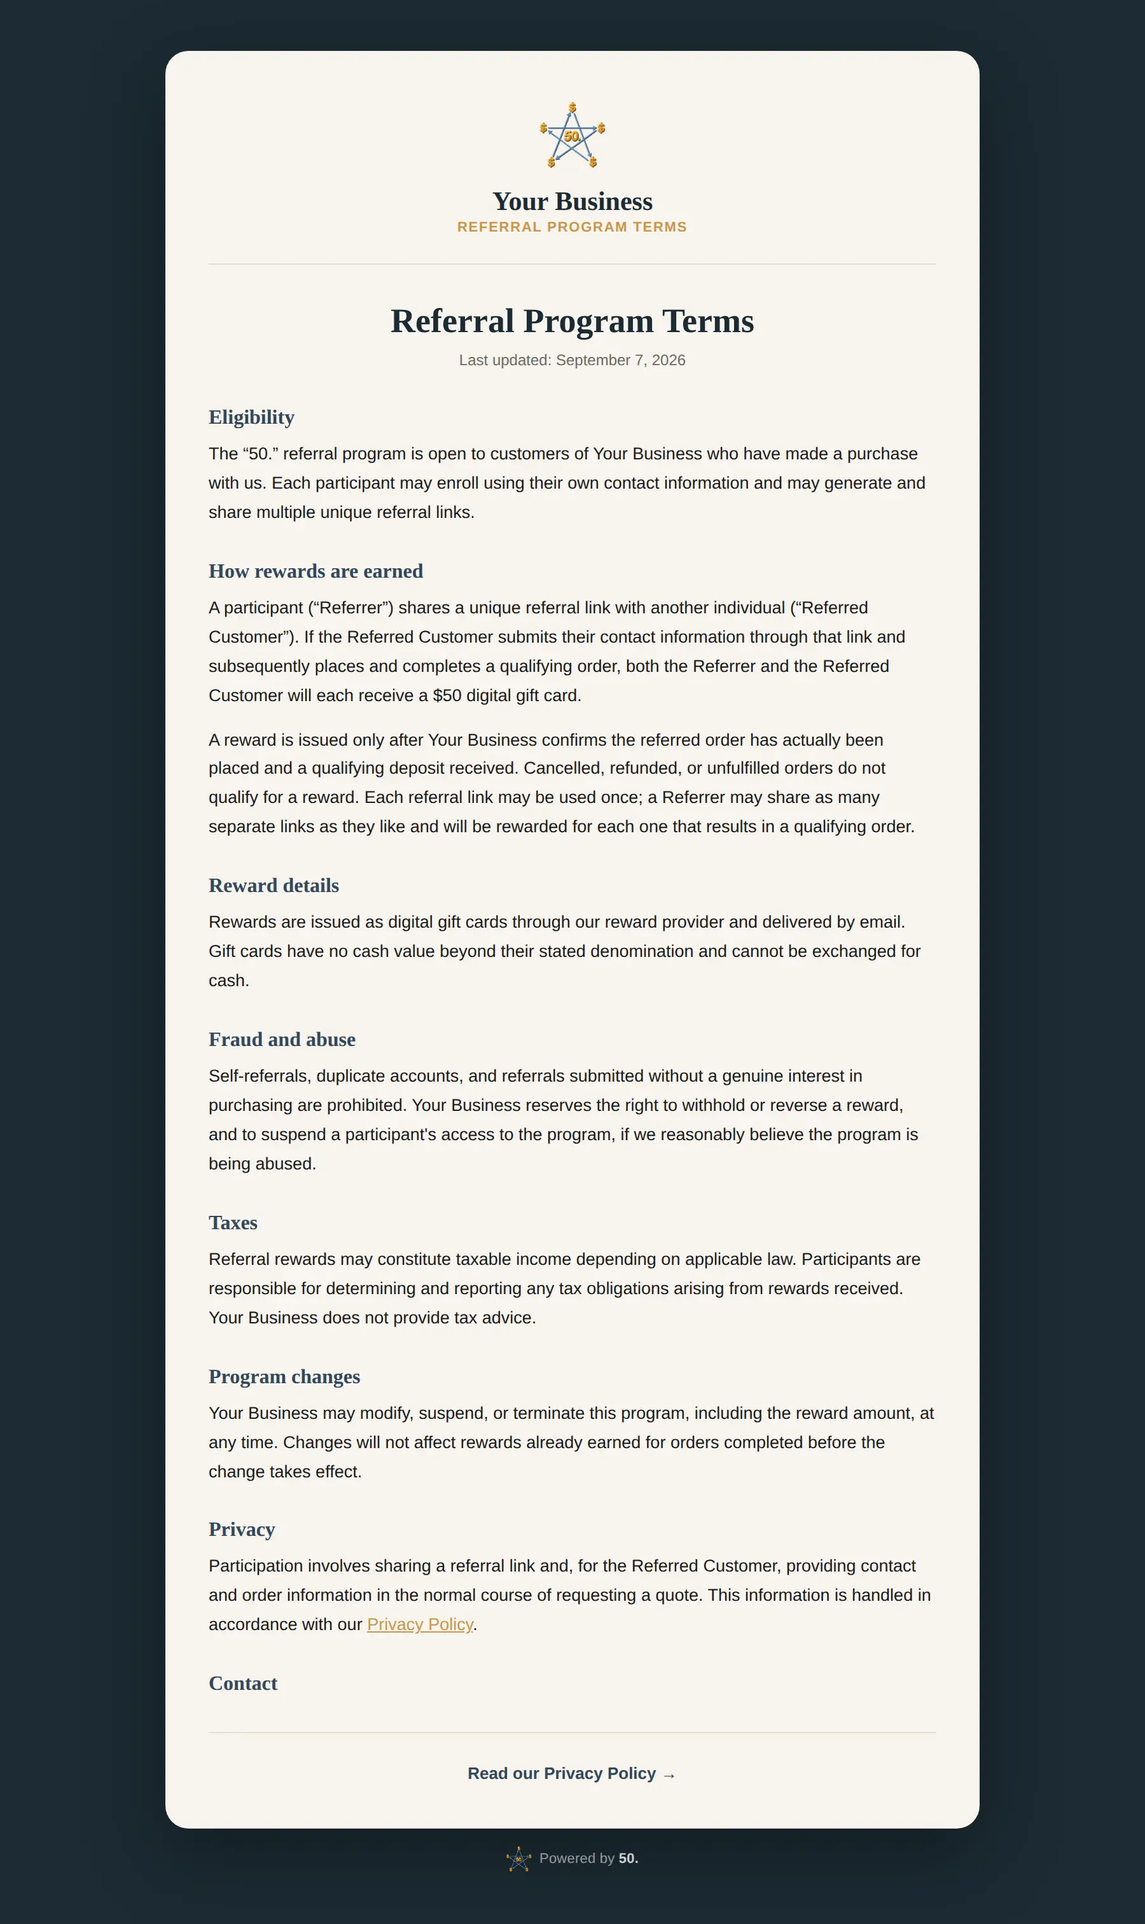
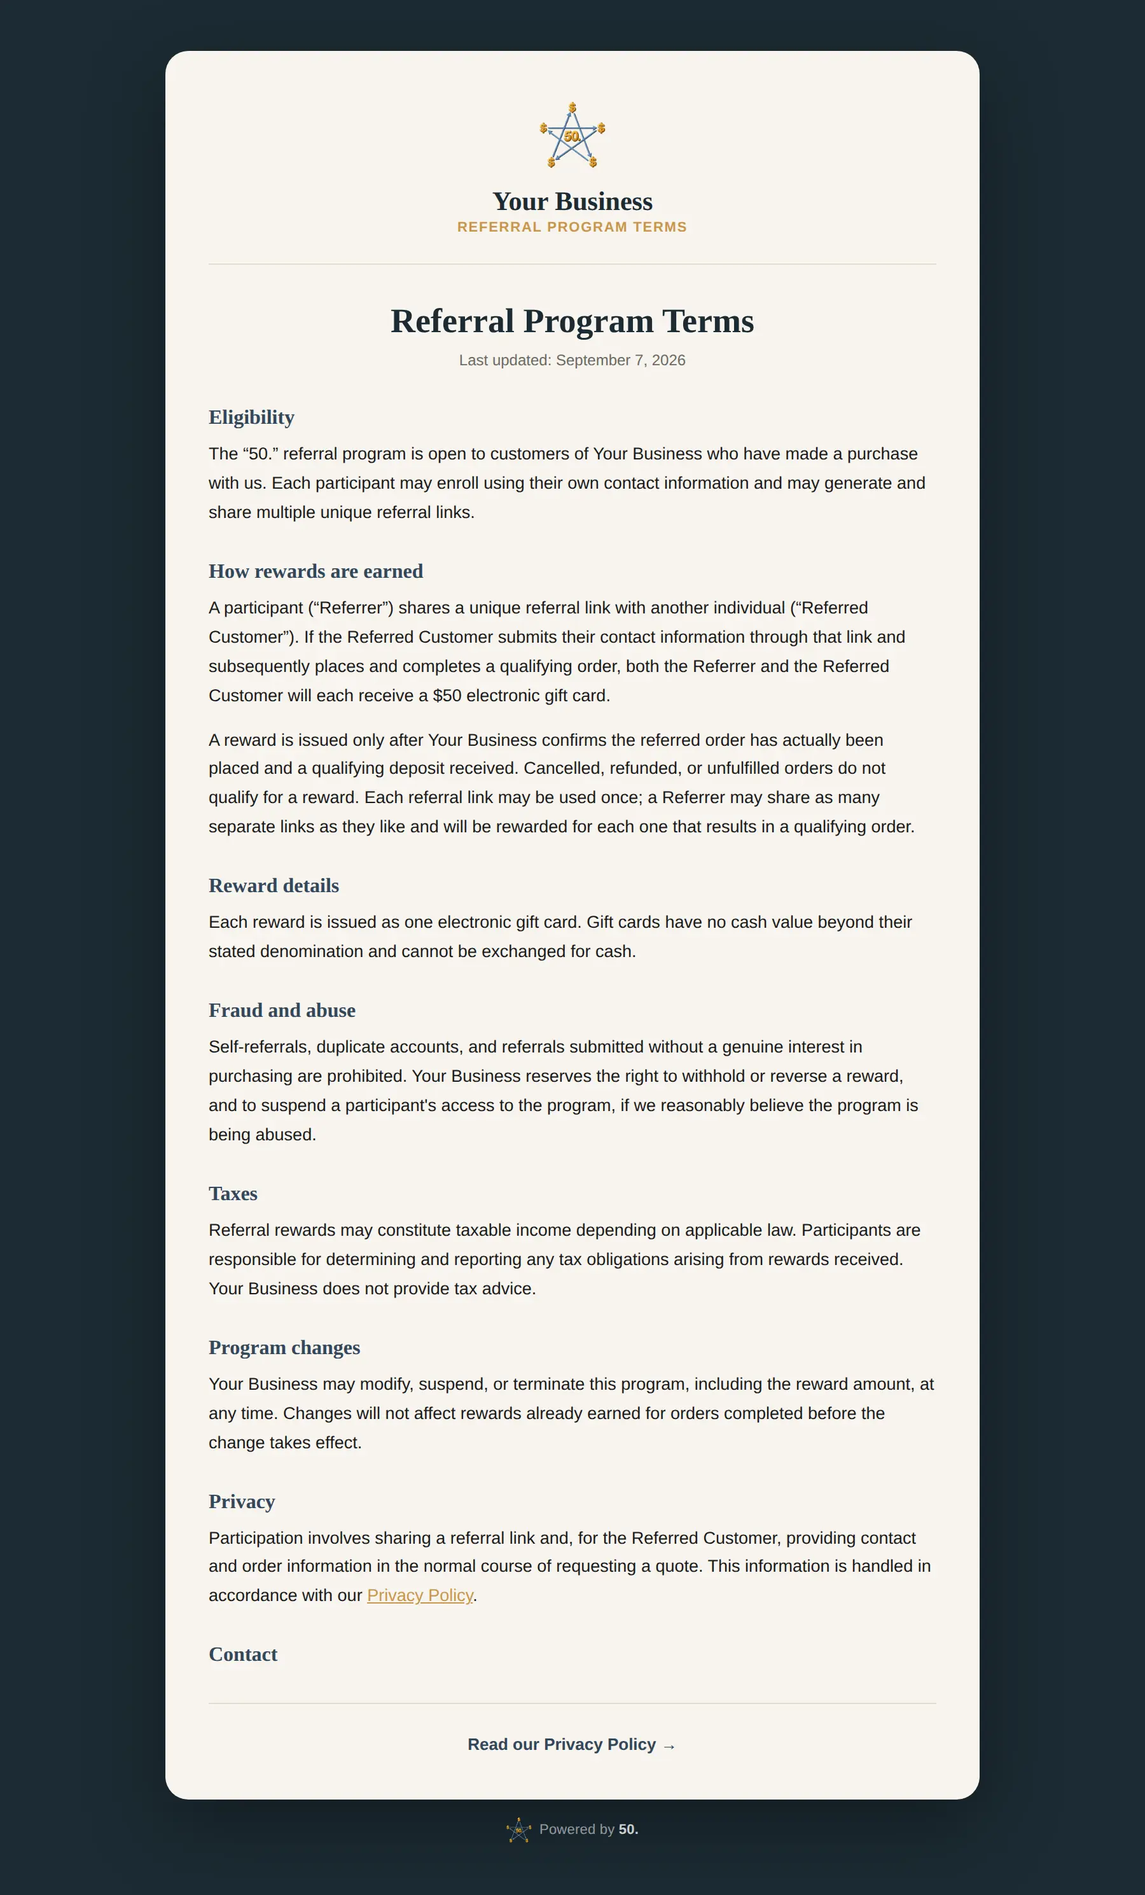
Let each dealer say what their gift card is, and stop three pages lying
Joseph spotted the friend's landing page saying "electronic gift card" for a
company that will be mailing real ones. It was hardcoded, and so were two
other spellings of the same thing -- "eGift card" on the confirmation and
"digital gift card" on the terms page -- none of them editable and none
agreeing with each other.

cardNoun is a tenth wording field, on step 1 of the wizard. Set it to "gift
card in the mail" and it reaches all four places the reward is named.
Verified by rendering both pages with it changed: no stale spelling left.

THE TERMS PAGE WAS PROMISING A DELIVERY METHOD

"Rewards are issued as digital gift cards through our reward provider and
delivered by email." Stated as fact, on the page that is a dealer's terms,
and false for anyone who mails them. That sentence no longer claims how a
card arrives.

THE WELCOME EMAIL WAS QUOTING PRICES NOBODY PAYS

Worse than a leftover from this week's pricing work, though it was that too:
the call site passed activationFeeCents: 50000 hardcoded, so a dealer charged
anything other than $500 has always been told $500. On top of that it said
"$100 a year" and "50. charges 30% of that payout as its fee" across four
places -- the second false for every dealer since the fee became flat.

It now reads the dealer's real terms back from the tenant row after creation
rather than restating defaults. Restating them is how this happens: the route
owned a second copy of numbers approve_lead_build is responsible for, and
[…]

diff --git a/api/scripts/e2e/rep-page-e2e.js b/api/scripts/e2e/rep-page-e2e.js
@@ -1212,7 +1212,7 @@ async function main() {
       eq(row.copy.friendAction, 'book your gutter job', 'what she typed');
       eq(row.copy.inquiryNoun, 'gutter inquiry', 'and the second line');
       eq(Object.keys(row.copy).length, 2, 'only the boxes she filled');
-      return '2 of 9 lines stored, the rest left to the generic wording';
+      return '2 lines stored, the rest left to the generic wording';
     });
 
     await check('Every empty box shows the wording that runs instead, so nothing looks missing', async () => {
@@ -1220,28 +1220,46 @@ async function main() {
       await repPage.$eval('#leadForm details.wording', (d) => { d.open = true; });
       const holders = await repPage.$$eval('#leadForm details.wording [name^=copy_]', (els) =>
         els.map((e) => ({ name: e.name, placeholder: e.placeholder })));
-      eq(holders.length, 9, 'nine lines');
+      // From the field list rather than a literal, so a new field does not
+      // silently narrow what this check covers.
+      const { COPY_KEYS } = require('../../src/lib/tenantCopy');
+      eq(holders.length, COPY_KEYS.length, 'every line has a fallback shown');
       assert(holders.every((h) => h.placeholder && h.placeholder.length > 2), `a box with no fallback shown: ${JSON.stringify(holders)}`);
       const all = holders.map((h) => h.placeholder).join(' ').toLowerCase();
       assert(!all.includes('shed'), `shed wording offered to a non-shed business: ${all}`);
-      return 'nine boxes, each showing its trade-neutral fallback';
+      return 'every box shows its trade-neutral fallback';
     });
 
-    await check('The nine boxes come three at a time, not all at once', async () => {
+    await check('The boxes come a few at a time, not all at once', async () => {
+      // Asserted as a property, not as "three": steps hold different numbers
+      // of fields and a tenth was added for what the gift card is called. The
+      // thing that must stay true is that every box is in the form so saving
+      // sends them all, while only one step's worth is ever on screen.
+      const { COPY_KEYS } = require('../../src/lib/tenantCopy');
       await openAddLead(repPage);
       await repPage.$eval('#leadForm details.wording', (d) => { d.open = true; });
       const all = await repPage.$$eval('#leadForm [name^=copy_]', (els) => els.length);
-      eq(all, 9, 'all nine still in the form, so saving sends every box');
+      eq(all, COPY_KEYS.length, 'every box is in the form, so saving sends them all');
       const shown = await repPage.$$eval('#leadForm .wpane.on [name^=copy_]', (els) => els.map((e) => e.name));
-      eq(shown.length, 3, 'but only one step is on screen');
-      // The wall of nine boxes is the thing reps found overwhelming; if a
-      // change ever flattens the wizard back out, this is what catches it.
+      assert(shown.length > 0 && shown.length < all,
+        `one step shows ${shown.length} of ${all} boxes — the wizard has flattened back out`);
       await repPage.click('#leadForm [data-wstep="2"]');
       await repPage.waitForSelector('#leadForm [data-wpane="2"].on');
       const later = await repPage.$$eval('#leadForm .wpane.on [name^=copy_]', (els) => els.map((e) => e.name));
-      eq(later.length, 3, 'still three after stepping');
+      assert(later.length > 0 && later.length < all, `step 3 shows ${later.length} of ${all}`);
       assert(later.join() !== shown.join(), `step 3 shows the same boxes as step 1: ${later.join()}`);
-      return 'nine in the form, three on screen, different boxes per step';
+      // No box may be stranded: every field has to live on some step, or a
+      // rep can never reach it.
+      const reachable = new Set();
+      for (const i of [0, 1, 2]) {
+        await repPage.click(`#leadForm [data-wstep="${i}"]`);
+        await repPage.waitForSelector(`#leadForm [data-wpane="${i}"].on`);
+        (await repPage.$$eval('#leadForm .wpane.on [name^=copy_]', (els) => els.map((e) => e.name)))
+          .forEach((n) => reachable.add(n.replace(/^copy_/, '')));
+      }
+      const stranded = COPY_KEYS.filter((k) => !reachable.has(k));
+      eq(stranded.length, 0, `fields on no step, so a rep cannot reach them: ${stranded.join(', ')}`);
+      return `${all} in the form, ${shown.length} on screen, every one reachable`;
     });
 
     await check('A fragment box shows the finished sentence it lands inside', async () => {
@@ -1350,7 +1368,7 @@ async function main() {
 
     await check('The lead row says how much is in their own words, and reopens for editing', async () => {
       const rowText = await repPage.locator('#tab-leads tr', { hasText: 'Gutters By Dale' }).textContent();
-      assert(/2 of 9 in their own words/.test(rowText), `row: ${rowText}`);
+      assert(/2 of \d+ in their own words/.test(rowText), `row: ${rowText}`);
       await repPage.locator('#tab-leads tr', { hasText: 'Gutters By Dale' }).locator('[data-wording]').click();
       await repPage.waitForSelector('#wordingForm');
       await repPage.click('#wordingForm [data-wstep="1"]');
@@ -1365,7 +1383,7 @@ async function main() {
       const [row] = await sql(`select copy from rep_leads where company_name = 'Gutters By Dale'`);
       eq(Object.keys(row.copy).length, 3, 'now three lines');
       eq(row.copy.offerHow, 'Have us do your gutters and you both get {reward}.', 'the line added later');
-      return 'row shows 2 of 9, dialog reopens, a third line added later';
+      return 'row shows 2 of N, dialog reopens, a third line added later';
     });
 
     await check('Clearing every box drops the lead back to the generic wording', async () => {

diff --git a/api/src/lib/dealerBuildEmails.js b/api/src/lib/dealerBuildEmails.js
@@ -42,10 +42,26 @@ function logoBlock(logoUrl) {
 // ---------------------------------------------------------------------------
 // To the dealer's own admin
 // ---------------------------------------------------------------------------
-function forDealer({ contactName, companyName, link, signInUrl, activationFeeCents, rewardAmountCents, repName, logoUrl }) {
+function forDealer({ contactName, companyName, link, signInUrl, activationFeeCents, annualFeeCents,
+                     referralFeeCents, chargeCardCost, rewardFulfillment, cardNoun,
+                     rewardAmountCents, repName, logoUrl }) {
   const hi = firstName(contactName);
   const fee = money(activationFeeCents);
   const card = money(rewardAmountCents);
+  // Every figure here comes from this dealer's own terms. These lines used to
+  // be hardcoded -- "$100 a year", "30% of that payout" -- which stopped
+  // being true the moment prices became per-dealer, and the 30% stopped
+  // being true at all when the fee became a flat amount.
+  const yearly = money(annualFeeCents);
+  const perReferral = money(referralFeeCents);
+  const noun = (cardNoun && String(cardNoun).trim()) || 'gift card';
+  const weSend = rewardFulfillment === 'platform';
+  const rewardSentence = weSend
+    ? `When one of your customers refers a friend and that job closes, we email both of them a ${card} ${noun}.`
+    : `When one of your customers refers a friend and that job closes, you send both of them a ${card} ${noun}.`;
+  const costSentence = chargeCardCost
+    ? `Your card on file is charged for the two cards plus a ${perReferral} fee.`
+    : `Your card on file is charged ${perReferral}.`;
 
   const text = [
     `Hi ${hi},`,
@@ -59,8 +75,8 @@ function forDealer({ contactName, companyName, link, signInUrl, activationFeeCen
     '',
     'What happens when you sign in:',
     `- There is a one-time ${fee} setup payment to switch the program on. That covers your first 12 months.`,
-    `- After that it is $100 a year.`,
-    `- When one of your customers refers a friend and that job closes, you send both of them a ${card} gift card. 50. charges 30% of that payout as its fee.`,
+    `- After that it is ${yearly} a year.`,
+    `- ${rewardSentence} ${costSentence}`,
     '',
     'Your colours and logo are already on your pages. If anything looks off, reply to this email and we will fix it.',
     '',
@@ -80,8 +96,8 @@ function forDealer({ contactName, companyName, link, signInUrl, activationFeeCen
   <p style="${PARA}">Then sign in any time at <a href="${escapeHtml(signInUrl)}" style="color:#33475A;font-weight:bold;">${escapeHtml(signInUrl)}</a>.</p>
   <table role="presentation" width="100%" cellpadding="0" cellspacing="0" style="background:#F7F4EE;border-radius:8px;margin:4px 0 16px;"><tr><td style="padding:12px 16px;">
     <p style="${FONT}font-size:14px;line-height:1.6;margin:0 0 8px;"><b>When you sign in</b> there is a one-time ${escapeHtml(fee)} setup payment to switch the program on. That covers your first 12 months.</p>
-    <p style="${FONT}font-size:14px;line-height:1.6;margin:0 0 8px;">After that it is $100 a year.</p>
-    <p style="${FONT}font-size:14px;line-height:1.6;margin:0;">When one of your customers refers a friend and that job closes, you send both of them a ${escapeHtml(card)} gift card. 50. charges 30% of that payout as its fee.</p>
+    <p style="${FONT}font-size:14px;line-height:1.6;margin:0 0 8px;">After that it is ${escapeHtml(yearly)} a year.</p>
+    <p style="${FONT}font-size:14px;line-height:1.6;margin:0;">${escapeHtml(rewardSentence)} ${escapeHtml(costSentence)}</p>
   </td></tr></table>
   <p style="${PARA}">Your colours and logo are already on your pages. If anything looks off, reply to this email and we will fix it.</p>
   ${repName ? `<p style="${PARA}">${escapeHtml(repName)} set this up with you — they are still your contact.</p>` : ''}

diff --git a/referral-terms.html b/referral-terms.html
@@ -84,13 +84,13 @@
 
     <section>
       <h2>How rewards are earned</h2>
-      <p>A participant (&ldquo;Referrer&rdquo;) shares a unique referral link with another individual (&ldquo;Referred Customer&rdquo;). If the Referred Customer submits their contact information through that link and subsequently <span data-copy="qualifyingEvent">places and completes an order for a building</span>, both the Referrer and the Referred Customer will each receive a <span data-reward-amount>$50</span> digital gift card.</p>
+      <p>A participant (&ldquo;Referrer&rdquo;) shares a unique referral link with another individual (&ldquo;Referred Customer&rdquo;). If the Referred Customer submits their contact information through that link and subsequently <span data-copy="qualifyingEvent">places and completes an order for a building</span>, both the Referrer and the Referred Customer will each receive a <span data-reward-amount>$50</span> <span data-copy="cardNoun">electronic gift card</span>.</p>
       <p style="margin-top:12px;">A reward is issued only after <span data-tenant-name-inline></span> <span data-copy="rewardCondition">confirms the referred order has actually been placed and a qualifying deposit received. Cancelled, refunded, or unfulfilled orders do not qualify for a reward.</span> Each referral link may be used once; a Referrer may share as many separate links as they like and will be rewarded for each one that results in a qualifying order.</p>
     </section>
 
     <section>
       <h2>Reward details</h2>
-      <p>Rewards are issued as digital gift cards through our reward provider and delivered by email. Gift cards have no cash value beyond their stated denomination and cannot be exchanged for cash.</p>
+      <p>Each reward is issued as one <span data-copy="cardNoun">electronic gift card</span>. Gift cards have no cash value beyond their stated denomination and cannot be exchanged for cash.</p>
     </section>
 
     <section>

diff --git a/api/src/routes/reps.js b/api/src/routes/reps.js
@@ -1446,6 +1446,20 @@ router.post('/rep-leads/:id/build', requireAuth, wrap(async (req, res) => {
     }
   });
 
+  // 4b. What this dealer was actually created with. Read back rather than
+  //     restated from the request body: approve_lead_build applies its own
+  //     fallbacks for anything Joseph left alone, and a second copy of those
+  //     defaults here is exactly how the welcome email ends up quoting a
+  //     price the dealer is not charged. It hardcoded $500 before this.
+  const terms = await withServiceRole(async (client) => {
+    const { rows: [row] } = await client.query(
+      `select activation_fee_cents, annual_fee_cents, referral_fee_cents,
+              reward_amount_cents, reward_fulfillment, charge_card_cost,
+              branding->'copy'->>'cardNoun' as card_noun
+         from tenants where id = $1`, [tenantId]);
+    return row;
+  });
+
   // 5. Tell them. Best effort, and honest about which part failed.
   const frontend = String(process.env.FRONTEND_BASE_URL || '').replace(/\/+$/, '');
   const from = process.env.EMAIL_FROM_ADDRESS;
@@ -1463,8 +1477,13 @@ router.post('/rep-leads/:id/build', requireAuth, wrap(async (req, res) => {
         companyName: plan.name,
         link,
         signInUrl: `${frontend}/login`,
-        activationFeeCents: 50000,
-        rewardAmountCents: plan.rewardCents || 5000,
+        activationFeeCents: terms.activation_fee_cents,
+        annualFeeCents: terms.annual_fee_cents,
+        referralFeeCents: terms.referral_fee_cents,
+        chargeCardCost: terms.charge_card_cost,
+        rewardFulfillment: terms.reward_fulfillment,
+        cardNoun: terms.card_noun,
+        rewardAmountCents: terms.reward_amount_cents,
         repName: plan.lead.closed_by_name,
         logoUrl,
       });

diff --git a/fifty-reps.html b/fifty-reps.html
@@ -849,6 +849,9 @@ const COPY_FIELDS = [
   { key:'offerHow', stage:'Their invite email, and their share page', label:'How the program works, in a sentence or two', multiline:true, max:600,
     where:'The main offer line — the first thing a past customer reads. Wrap words in **stars** to bold them in the email.',
     generic:"Here's how it works: make a purchase with us and you'll receive your own referral link to share. When a friend buys through that link, you each receive a **{reward} Amazon E-Gift Card**." },
+  { key:'cardNoun', stage:'Their invite email, and their share page', label:'What the gift card is called', max:60,
+    where:'Used wherever the reward is named \u2014 \u201ca $50 \u2026\u201d. Change it for a business that mails real cards rather than emailing them.',
+    generic:'electronic gift card' },
   { key:'shareTitle', stage:'Their invite email, and their share page', label:'Title when a customer shares their link', max:200,
     where:'The heading on a phone’s share sheet.',
     generic:'Get {reward} when you make a purchase from {name}' },
@@ -878,7 +881,7 @@ const COPY_FIELDS = [
 // The three steps, and which fields belong to each. Grouped by the page the
 // words come out on, which is also the order a customer meets them in.
 const WORDING_STEPS = [
-  { title:'What their past customers get', keys:['offerHow','shareTitle','shareText'] },
+  { title:'What their past customers get', keys:['offerHow','cardNoun','shareTitle','shareText'] },
   { title:'The page their friend lands on', keys:['friendAction','afterPurchase','inquiryNoun'] },
   { title:'Their terms page',               keys:['eligibility','qualifyingEvent','rewardCondition'] },
 ];

diff --git a/fifty-template-lead.html b/fifty-template-lead.html
@@ -167,7 +167,7 @@
       <p>
         <span class="who" data-referrer-name>A friend</span> thought you might need <span data-tenant-name-inline>50.</span>'s
         services and wanted to pass along a personal recommendation. When you <span data-copy="friendAction">place your order</span>, you and
-        <span class="who" data-referrer-name>A friend</span> will each get a <span class="reward"><span data-reward-amount>$50</span> electronic gift card</span> — no strings attached.
+        <span class="who" data-referrer-name>A friend</span> will each get a <span class="reward"><span data-reward-amount>$50</span> <span data-copy="cardNoun">electronic gift card</span></span> — no strings attached.
       </p>
     </div>
 
@@ -204,7 +204,7 @@
 
   <div class="confirm" id="confirmState">
     <h2>You're all set.</h2>
-    <p>Thanks, <span id="confirmName"></span> — we've got your info and someone will reach out soon. Once you've <span data-copy="afterPurchase">made your purchase</span>, you and <span id="confirmReferrer"></span> will each get a <span data-reward-amount>$50</span> eGift card.</p>
+    <p>Thanks, <span id="confirmName"></span> — we've got your info and someone will reach out soon. Once you've <span data-copy="afterPurchase">made your purchase</span>, you and <span id="confirmReferrer"></span> will each get a <span data-reward-amount>$50</span> <span data-copy="cardNoun">electronic gift card</span>.</p>
     <!-- Hidden by default (a.builderbtn's own CSS); shown and given a
          real href only if this tenant has a builderUrl set — see
          checkAndRender's own comment on where that value comes from. -->

diff --git a/api/src/lib/tenantCopy.js b/api/src/lib/tenantCopy.js
@@ -31,6 +31,13 @@ const COPY_FIELDS = [
     multiline: true,
   },
   {
+    key: 'cardNoun',
+    stage: 'The invite email, and their share page',
+    label: 'What the gift card is called',
+    where: 'Used wherever the reward is named \u2014 \u201ca $50 …\u201d. Change it for a business that mails real cards rather than emailing them.',
+    max: 60,
+  },
+  {
     key: 'shareTitle',
     stage: 'The invite email, and their share page',
     label: 'Title when a customer shares their link',
@@ -98,6 +105,7 @@ const COPY_KEYS = COPY_FIELDS.map((f) => f.key);
 const GENERIC_COPY = {
   offerHow:
     "Here's how it works: make a purchase with us and you'll receive your own referral link to share. When a friend buys through that link, you each receive a **{reward} Amazon E-Gift Card**.",
+  cardNoun: 'electronic gift card',
   shareTitle: 'Get {reward} when you make a purchase from {name}',
   shareText: 'I referred you — make your purchase through my link and we both get {reward}.',
   friendAction: 'make your purchase',

diff --git a/api/scripts/e2e/dealer-build-e2e.js b/api/scripts/e2e/dealer-build-e2e.js
@@ -557,7 +557,10 @@ async function main() {
       eq(c.friendAction, 'hire us for your roof', 'the rep\'s words, intact');
       eq(c.inquiryNoun, 'roofing inquiry', 'and the second one');
       eq(c.offerHow.includes('make a purchase with us'), true, 'a blank line got the generic wording');
-      eq(Object.keys(c).length, 9, 'every line is set, so nothing can fall through to a default');
+      // Counted from the field list, not a literal: adding a tenth field
+      // should not make this check quietly wrong.
+      const { COPY_KEYS } = require('../../src/lib/tenantCopy');
+      eq(Object.keys(c).length, COPY_KEYS.length, 'every line is set, so nothing can fall through to a default');
       return `${Object.keys(c).length} lines: 2 Christian's, 7 generic`;
     });
 

diff --git a/api/scripts/build-wording-shots.js b/api/scripts/build-wording-shots.js
@@ -94,7 +94,11 @@ const SHOTS = [
     title: 'The page their friend lands on',
     file: 'fifty-template-lead.html',
     width: 900,
-    keys: ['friendAction'],
+    // cardNoun is pinned here rather than on the terms page because this is
+    // where a rep meets it: the main offer line, in the sentence a customer
+    // actually reads. It appears on the terms page too, and querySelector
+    // takes the first match, which is this one.
+    keys: ['friendAction', 'cardNoun'],
     // Without a link code the page falls back to "A friend", which reads
     // oddly mid-sentence ("you and A friend will each get"). A real name
     // makes the captured sentence read the way a customer will see it.
